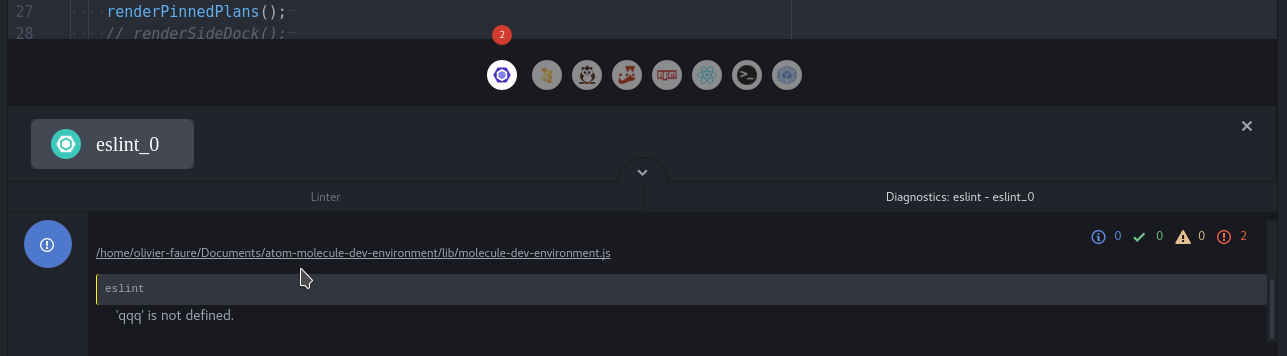
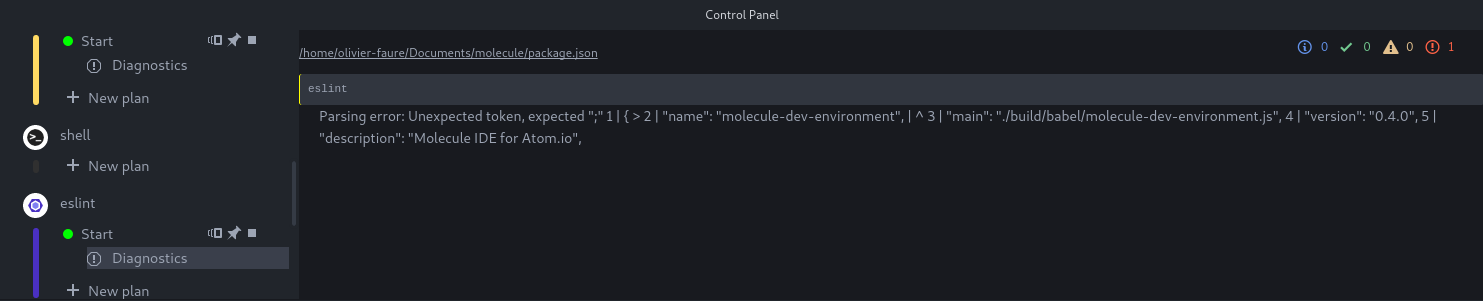
Update screenshots

diff --git a/doc/new-user/using-a-plan.md b/doc/new-user/using-a-plan.md
@@ -42,10 +42,14 @@ the Control Panel.
 
 - A "Play" button that runs/stops the execution of the plan.
 
+![Plugin subpanel](resources/plugin-subpanel.png)
+
+Click the "Play" button next to one of the npm plan "eslint".
+
 Click the "Play" button next to the JEST_XXX plan for the Jest plugin. Two
 additional buttons should appear under the JEST_XXX plan:
 
-[Comment]: # (TODO - Add plan-buttons screenshot)
+![Eslint plan buttons](resources/eslint-plan-buttons.png)
 
 - The Diagnostics button opens the [Diagnostics Subpanel](#diagnostics-subpanel).
 
@@ -56,6 +60,8 @@ stops until you click the play button again. If you edit one of your source
 files, the changes will be sent to the running instance of Jest. If these
 changes cause new errors, Jest will send error messages automatically
 (see below).
+
+Most of the "watch mode" plans are automatically executed on startup.
 
 Diagnostics Subpanel
 --------------------

diff --git a/doc/new-user/creating-a-plan.md b/doc/new-user/creating-a-plan.md
@@ -15,9 +15,11 @@ For this tutorial, we will create an eslint plan:
 - Leave the other settings as-is
 - Click the "Create" button.
 
+![Create eslint plan](resources/create-eslint-0.png)
+
 A new plan named "eslint_0" should have appeared in the Plugin Subpanel.
 
-[Comment]: # (TODO - Add eslint_0-plan screenshot)
+![After eslint plan is added](resources/eslint-0-added.png)
 
 You can click on the "Play" button, which will run `eslint` and start giving you diagnostics.
 
